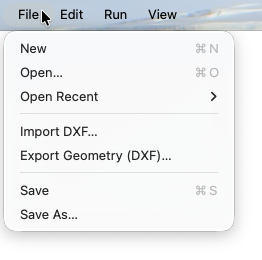
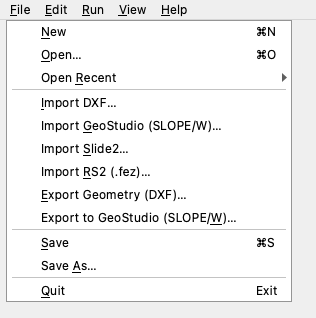
docs(studio): new hero + annotated interface overview; toolbar table corrected
The hero shows a solved Spencer dam (FS 1.558) with the current toolbar
(Sensitivity / Design), Line loads in the tree, and the assistant dock —
generated offscreen, regenerable on demand. Interface overview re-annotated;
the removed 100% toolbar button is gone from the table; the File menu image
carries all four importers and both exporters.

Claude-Session: https://claude.ai/code/session_0147GB4LGVZuqGHCRMVzZTsR

Changed region(s): [[0.0, 0.0, 1.0, 0.9538], [0.7939, 0.3385, 0.8244, 0.4]]

diff --git a/docs/studio/interface.md b/docs/studio/interface.md
@@ -14,7 +14,7 @@ The window is organized around a central **canvas** with docks on each side:
 
 | Region | Purpose |
 | --- | --- |
-| **Toolbar** (top) | New / Open, Undo / Redo, the analysis-mode selector, Build Mesh, and Run. |
+| **Toolbar** (top) | New / Open, Undo / Redo, the analysis-mode selector, Build Mesh, Run, and Sensitivity / Design. |
 | **Inputs tree** (left, top) | A list of every input category; click one to edit it. |
 | **Display dock** (left, bottom) | Per-view plot options for the active result tab, plus the **Styles…** button. |
 | **Canvas + view tabs** (center) | The plots. The **Inputs** tab is always present; result tabs are added as you run analyses. |
@@ -36,7 +36,6 @@ in a zoomable, pannable canvas. Each canvas has a small toolbar:
 | Control | Action |
 | --- | --- |
 | **Fit** | Frame the drawing to the window. |
-| **100%** | Reset to actual size. |
 | **+** / **−** | Zoom in / out. |
 | **Zoom to box** | A checkable mode — drag a rectangle to zoom into it (otherwise drag pans). |
 | **Save…** | Export the current view as a PNG / PDF / SVG image, or as a DXF (see [Export](analysis.md#exporting-views-images-and-dxf)). |

diff --git a/docs/studio/index.md b/docs/studio/index.md
@@ -25,8 +25,9 @@ point-and-click.
   run seepage and FEM analyses, each with a run-options dialog.
 - **View** results across dedicated tabs (search, solution, reliability, seepage,
   FEM), with a context-sensitive **Display** panel for per-view plot options.
-- **Export** any view as a PNG/PDF/SVG image or as a DXF, and import/export model
-  geometry as DXF.
+- **Export** any view as a PNG/PDF/SVG image or as a DXF.
+- **Import** models from other tools — DXF, GeoStudio (SLOPE/W), Slide2, and
+  RS2 (`.fez`) — and export back to DXF or GeoStudio.
 - **Ask** the built-in AI assistant to build inputs, run analyses, and script
   parameter studies in natural language.
 - **Save** back to the same Excel format (and the `{stem}_mesh.json` /
